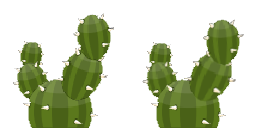
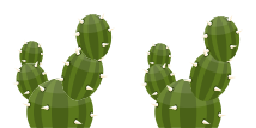
idk i did some shit it looks fine i guess

diff --git a/main.js b/main.js
@@ -71,7 +71,18 @@ let mapLayer = new Layer("map", { level: 1 });
 let detailsLayer = new Layer("details", { level: 2 });
 let hud = new Layer("hud", { level: 3 });
 
-let cactusBro = new GameObject({ asset: (new Asset({ image: "png/cactus.png" })) });
+let cactusAnimation = new Animate.Sequence({ 
+    idle: {
+        duration: 1000,
+        sequence: (new TileMap({ image: "png/character/cactus-idle-tile.png", scaleX: 128, scaleY: 128, size: 2})).map
+    },
+    run: {
+        duration: 1000,
+        sequence: (new TileMap({ image: "png/character/cactus-run-tile.png", scaleX: 128, scaleY: 128, size: 5})).map
+    }
+}, "idle");
+let cactusBro = new GameObject({ asset: cactusAnimation });
+
 cactusBro.position(...Asset.center(Game.width / 2, Game.height / 2, gameScale, gameScale));
 
 let levelBackground = new GameObject({ asset: (new Asset({ image: "png/bg.png"})), x: 0, y: 0, w: Game.width, h: Game.height});
@@ -149,6 +160,7 @@ Game.on("loop", ({ stamp, delta }) => {
                 mapLayer.assign(currentMap);
                 detailsLayer.assign(cactusBro);
                 state = "game";
+                cactusAnimation.switch("idle");
             }
             break;
         }
@@ -170,6 +182,12 @@ Game.on("loop", ({ stamp, delta }) => {
             moveY = Math.max(-maxSpeed, Math.min(maxSpeed, moveY + (gravity * (delta / 1000))));
         
             currentMap.move(moveX * speed * sprint * (delta / 1000), moveY * speed * (delta / 1000));
+
+            if (Math.abs(moveX) > 0.05) { 
+                cactusAnimation.use("run");
+            } else {
+                cactusAnimation.use("idle");
+            }
 
             let left = currentMap.x + collisionPoints.xn;
             let right = currentMap.x + collisionPoints.xp;

diff --git a/game.js b/game.js
@@ -339,7 +339,7 @@ Animate.property.prototype.value = function() {
     let to;
     let from;
     for (let i = 0; i < this.points.length; i++) {
-        if (this.points[i] >= factor) {
+        if (this.points[i] >= factor && !(factor == this.points[i] && factor == 0)) {
             to = this.points[i];
             from = this.points[i - 1];
             break;
